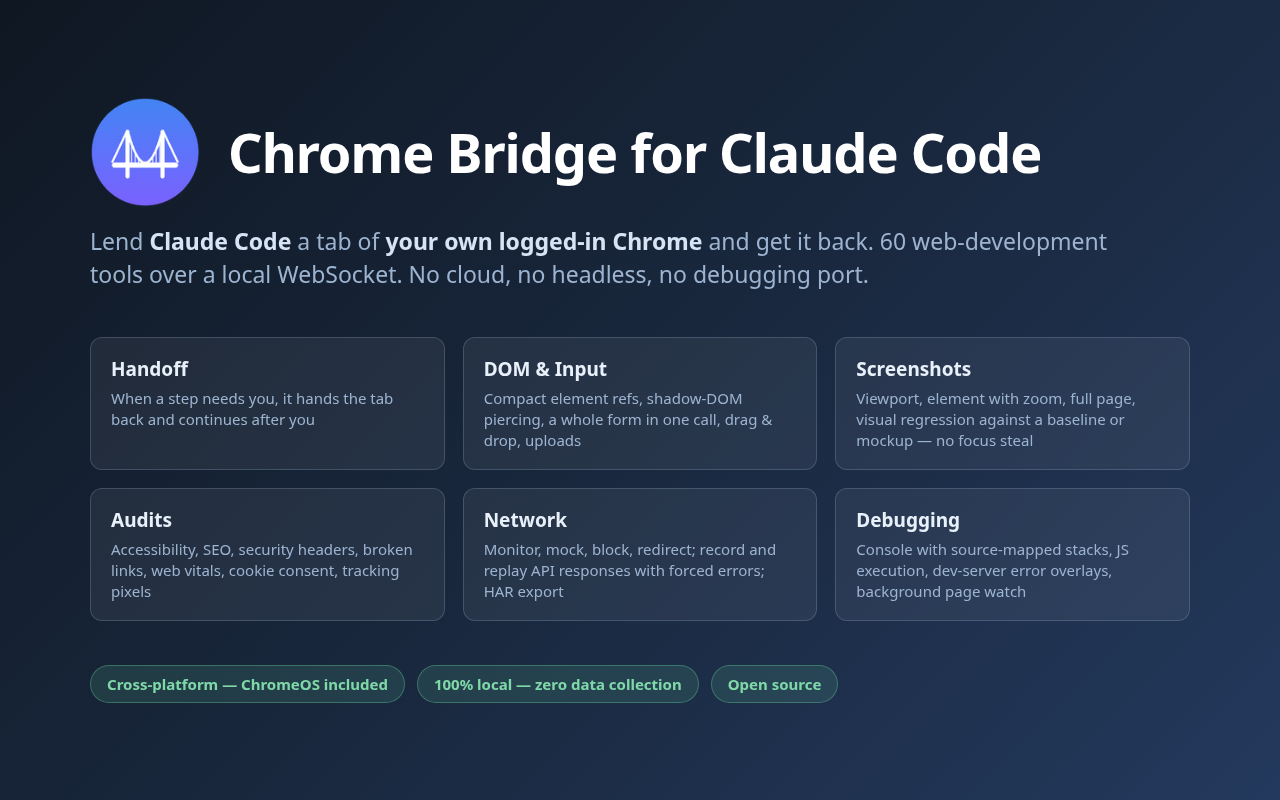
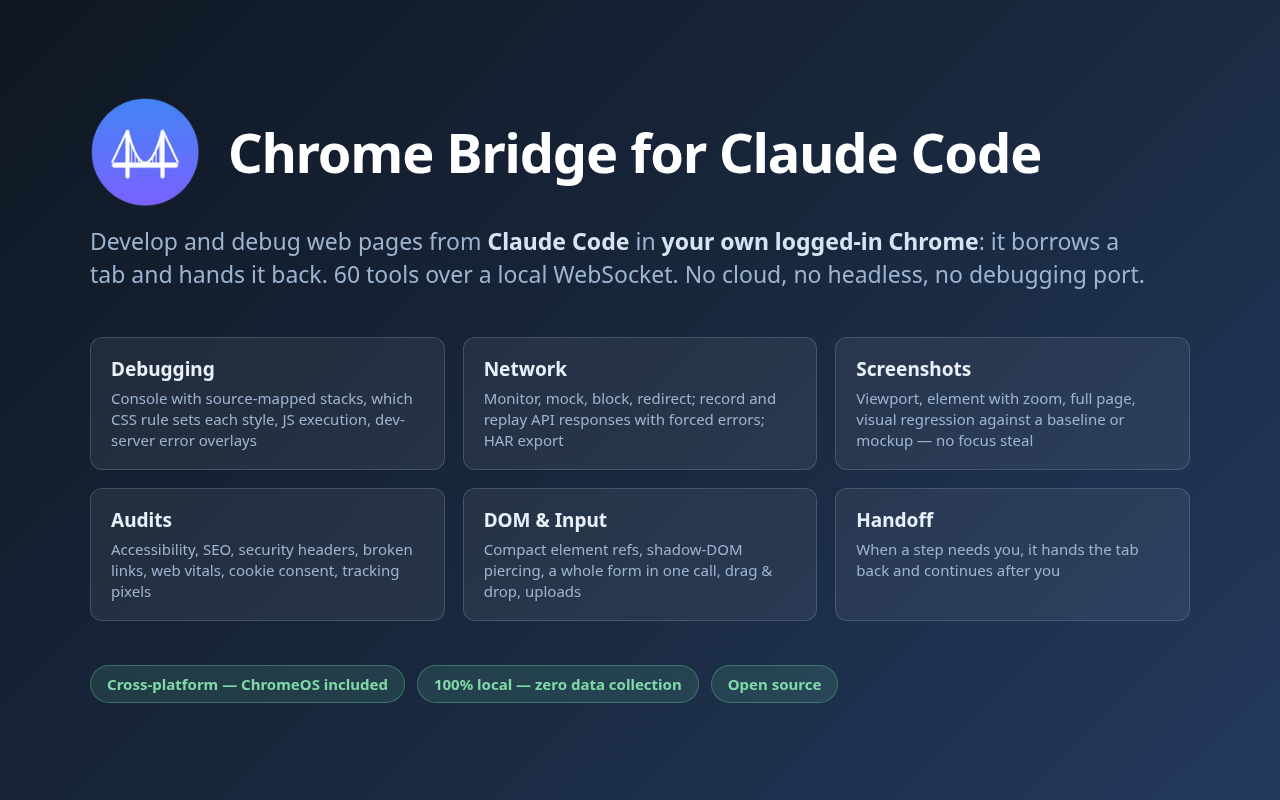
docs(store): screenshot 2 is a real debug session; hero and description lead with develop and debug
demo-debug/: checkout page whose bundle (one line, line-level source map from
build.mjs) fails on a 404 from /api/cart, with a Pay button whose
background-color is an undefined custom property. read_console(sourcemap),
monitor_network(browser) and get_css_styles output shown as returned.
demo-form.html and viewer.html removed (screenshot 2 no longer uses them).

diff --git a/docs/store/debug.html b/docs/store/debug.html
@@ -1,0 +1,85 @@
+<!DOCTYPE html>
+<html><head><meta charset="utf-8"><style>
+  * { margin: 0; box-sizing: border-box; }
+  body {
+    width: 1280px; height: 800px; overflow: hidden;
+    background: linear-gradient(135deg, #0f1722, #23395d);
+    font-family: system-ui, sans-serif;
+    display: flex; flex-direction: column; align-items: center; justify-content: center;
+  }
+  .caption { color: #e8f0fa; font-size: 26px; font-weight: 700; margin-bottom: 26px; }
+  .row { display: flex; gap: 22px; align-items: stretch; }
+  .win { border-radius: 10px; overflow: hidden; box-shadow: 0 22px 55px rgba(0,0,0,0.5); border: 1px solid #2a3542; }
+  .bar { height: 34px; background: #161d27; display: flex; align-items: center; padding: 0 14px; gap: 7px; }
+  .dot { width: 11px; height: 11px; border-radius: 50%; }
+  .bar .t { margin-left: 10px; color: #7d8ea3; font-size: 12px; font-family: ui-monospace, monospace; }
+  .page {
+    position: relative; width: 520px; height: 520px;
+    background: url(/real-debug.png) center / 800px auto no-repeat #f4f6fa;
+  }
+  .flag {
+    position: absolute; border: 2px dashed #e5484d; border-radius: 8px;
+  }
+  .flag span {
+    position: absolute; left: -2px; top: calc(100% + 6px); white-space: nowrap;
+    font: 600 12px ui-monospace, monospace; color: #fff; background: #e5484d; padding: 2px 7px; border-radius: 5px;
+  }
+  .term { width: 640px; background: #0d1117; }
+  pre {
+    padding: 20px 22px; font-family: 'Noto Sans Mono', ui-monospace, monospace;
+    font-size: 13.5px; line-height: 1.6; color: #c9d6e5; white-space: pre-wrap;
+  }
+  .c { color: #e8b45f; } .dim { color: #6f8196; } .err { color: #ff8589; } .ok { color: #7fd8a8; }
+</style></head><body>
+  <div class="caption">Debug the page you're building: console, network, styles</div>
+  <div class="row">
+    <div class="win">
+      <div class="bar">
+        <span class="dot" style="background:#ff5f57"></span>
+        <span class="dot" style="background:#febc2e"></span>
+        <span class="dot" style="background:#28c840"></span>
+        <span class="t">localhost:8791/demo-debug/</span>
+      </div>
+      <div class="page">
+        <div class="flag" id="flag"><span>.pay — "Pay now", invisible</span></div>
+      </div>
+    </div>
+    <div class="win term">
+      <div class="bar">
+        <span class="dot" style="background:#ff5f57"></span>
+        <span class="dot" style="background:#febc2e"></span>
+        <span class="dot" style="background:#28c840"></span>
+        <span class="t">claude — Claude Code</span>
+      </div>
+<pre><span class="c">⏺ read_console</span>(sourcemap: true)
+  <span class="dim">⎿</span> <span class="err">error</span> Cart failed to load: TypeError: Cannot read
+    properties of undefined (reading 'items')
+      at renderCart (dist/app.min.js:1:231 <span class="ok">→ src/cart.js:10:3</span>)
+      at loadCart (dist/app.min.js:1:116 <span class="ok">→ src/cart.js:5:3</span>)
+
+<span class="c">⏺ monitor_network</span>(source: "browser")
+  <span class="dim">⎿</span> 200 GET /demo-debug/dist/app.min.js
+    <span class="err">404 GET /api/cart</span>
+
+<span class="c">⏺ get_css_styles</span>(selector: ".pay")
+  <span class="dim">⎿</span> background-color: var(--brand-primary)
+      computed rgba(0, 0, 0, 0)  <span class="dim">(style.css, .pay)</span>
+    color: rgb(255, 255, 255)
+
+<span class="ok">✓</span> /api/cart answers 404, so cart is undefined at
+  src/cart.js:10. "Pay now" is white on white:
+  --brand-primary is never defined.</pre>
+    </div>
+  </div>
+  <script>
+    // Box of button.pay in the real capture (query_dom rect 270,390 460×42 at dpr 1.25),
+    // mapped onto the scaled, centred background of .page.
+    const shot = { w: 1250, h: 799 }, btn = { x: 338, y: 488, w: 575, h: 52 };
+    const page = document.querySelector('.page'), s = 800 / shot.w;
+    const ox = (page.clientWidth - shot.w * s) / 2, oy = (page.clientHeight - shot.h * s) / 2;
+    Object.assign(document.getElementById('flag').style, {
+      left: (ox + btn.x * s - 4) + 'px', top: (oy + btn.y * s - 4) + 'px',
+      width: (btn.w * s + 8) + 'px', height: (btn.h * s + 8) + 'px',
+    });
+  </script>
+</body></html>

diff --git a/docs/store/hero.html b/docs/store/hero.html
@@ -29,14 +29,14 @@
     <img src="/icon-128.png" alt="">
     <h1>Chrome Bridge for Claude Code</h1>
   </div>
-  <div class="sub">Lend <b>Claude Code</b> a tab of <b>your own logged-in Chrome</b> and get it back. 60 web-development tools over a local WebSocket. No cloud, no headless, no debugging port.</div>
+  <div class="sub">Develop and debug web pages from <b>Claude Code</b> in <b>your own logged-in Chrome</b>: it borrows a tab and hands it back. 60 tools over a local WebSocket. No cloud, no headless, no debugging port.</div>
   <div class="grid">
-    <div class="card"><div class="t">Handoff</div><div class="d">When a step needs you, it hands the tab back and continues after you</div></div>
-    <div class="card"><div class="t">DOM &amp; Input</div><div class="d">Compact element refs, shadow-DOM piercing, a whole form in one call, drag &amp; drop, uploads</div></div>
+    <div class="card"><div class="t">Debugging</div><div class="d">Console with source-mapped stacks, which CSS rule sets each style, JS execution, dev-server error overlays</div></div>
+    <div class="card"><div class="t">Network</div><div class="d">Monitor, mock, block, redirect; record and replay API responses with forced errors; HAR export</div></div>
     <div class="card"><div class="t">Screenshots</div><div class="d">Viewport, element with zoom, full page, visual regression against a baseline or mockup — no focus steal</div></div>
     <div class="card"><div class="t">Audits</div><div class="d">Accessibility, SEO, security headers, broken links, web vitals, cookie consent, tracking pixels</div></div>
-    <div class="card"><div class="t">Network</div><div class="d">Monitor, mock, block, redirect; record and replay API responses with forced errors; HAR export</div></div>
-    <div class="card"><div class="t">Debugging</div><div class="d">Console with source-mapped stacks, JS execution, dev-server error overlays, background page watch</div></div>
+    <div class="card"><div class="t">DOM &amp; Input</div><div class="d">Compact element refs, shadow-DOM piercing, a whole form in one call, drag &amp; drop, uploads</div></div>
+    <div class="card"><div class="t">Handoff</div><div class="d">When a step needs you, it hands the tab back and continues after you</div></div>
   </div>
   <div class="badges">
     <span class="badge">Cross-platform — ChromeOS included</span>

diff --git a/docs/store/demo-debug/style.css b/docs/store/demo-debug/style.css
@@ -1,0 +1,9 @@
+body { margin: 0; min-height: 100vh; background: #f4f6fa; font-family: system-ui, sans-serif; color: #1c2533;
+  display: flex; align-items: center; justify-content: center; }
+.card { width: 460px; background: #fff; border-radius: 12px; padding: 30px 34px; box-shadow: 0 8px 30px rgba(20,35,60,0.12); }
+.brand { font-weight: 800; font-size: 15px; color: #3b5bdb; margin-bottom: 6px; }
+h1 { font-size: 22px; margin: 0 0 18px; }
+#items { list-style: none; margin: 0 0 16px; padding: 0; min-height: 60px; border: 1px dashed #c9d2e0; border-radius: 8px; }
+.total { display: flex; justify-content: space-between; font-weight: 600; margin-bottom: 18px; }
+.pay { width: 100%; padding: 12px; font-size: 15px; font-weight: 600; color: #fff;
+  background-color: var(--brand-primary); border: 0; border-radius: 8px; }

diff --git a/docs/store/demo-debug/src/cart.js b/docs/store/demo-debug/src/cart.js
@@ -1,0 +1,15 @@
+// Checkout cart: loads the cart from the API and renders its items.
+async function loadCart() {
+  const res = await fetch('/api/cart');
+  const data = res.ok ? await res.json() : undefined;
+  renderCart(data);
+}
+
+function renderCart(cart) {
+  const list = document.querySelector('#items');
+  for (const item of cart.items) {
+    list.insertAdjacentHTML('beforeend', `<li>${item.name}<span>${item.price}</span></li>`);
+  }
+}
+
+loadCart().catch((err) => console.error('Cart failed to load:', err.stack));

diff --git a/docs/store/demo-debug/index.html b/docs/store/demo-debug/index.html
@@ -1,0 +1,12 @@
+<!DOCTYPE html>
+<html lang="en"><head><meta charset="utf-8"><title>Checkout — MyApp</title>
+<link rel="stylesheet" href="style.css"></head><body>
+  <main class="card">
+    <div class="brand">MyApp · shop</div>
+    <h1>Checkout</h1>
+    <ul id="items"></ul>
+    <div class="total"><span>Total</span><span>€0.00</span></div>
+    <button class="pay">Pay now</button>
+  </main>
+  <script src="dist/app.min.js"></script>
+</body></html>

diff --git a/docs/store/listing.md b/docs/store/listing.md
@@ -24,19 +24,19 @@ This extension has a single purpose: it lets the user's own Claude Code CLI (run
 
 ## Detailed description
 
-Chrome Bridge lets Claude Code — Anthropic's CLI coding agent — borrow a tab of the Chrome you are already using, signed in, and hand it back. No headless instance, no debugging port, no cloud service: a local WebSocket (localhost:8765) bridges the Claude Code MCP server on your machine to this extension. When a step needs you, it hands the tab back and continues after you.
+Chrome Bridge lets Claude Code — Anthropic's CLI coding agent — develop and debug web pages in the Chrome you are already using, signed in. No headless instance, no debugging port, no cloud service: a local WebSocket (localhost:8765) bridges the Claude Code MCP server on your machine to this extension. When a step needs you, it hands the tab back and continues after you.
 
 Built to be token-efficient: the agent acts on compact element references instead of screenshots, tables are filtered and paginated server-side before they reach the model, and every output is capped — so complex sessions cost far fewer tokens.
 
 60 specialized web-development tools:
 
-• Navigation & tabs — open, close, navigate, list tabs; move, tile and lay out windows
-• DOM — query selectors (shadow-DOM piercing), read pages as markdown, list interactive elements, read a form as filled, modify the DOM
-• Input — click, type, press keys, fill forms, drag & drop, upload files; hand the tab back to the user when a step needs them
+• Debugging — console logs with source-mapped stacks, which CSS rule sets each style, JS execution, dev-server error overlays, background page watch
+• Network — monitor requests, mock/block/redirect, record and replay API responses with forced errors, HAR export
 • Screenshots — viewport (one per device preset), element with zoom, full page, visual regression against a baseline, a design mockup or another URL; captures run in the background without stealing window focus
 • Audits — one call for accessibility, keyboard navigation, SEO, security headers, broken links, web vitals, unused CSS, slow plugins and CDN cache; cookie-consent audit; tracking pixels decoded
-• Network — monitor requests, mock/block/redirect, record and replay API responses with forced errors, HAR export
-• Debugging — console logs with source-mapped stacks, JS execution, dev-server error overlays, background page watch
+• DOM — query selectors (shadow-DOM piercing), read pages as markdown, list interactive elements, read a form as filled, modify the DOM
+• Input — click, type, press keys, fill forms, drag & drop, upload files; hand the tab back to the user when a step needs them
+• Navigation & tabs — open, close, navigate, list tabs; move, tile and lay out windows
 • Emulation — media, geolocation, viewport, zoom
 
 Cross-platform: Windows, macOS, Linux — any desktop Chrome 135+. Also the only Claude Code browser automation that works on ChromeOS (Crostini).

diff --git a/docs/store/PASTE-SHEET.md b/docs/store/PASTE-SHEET.md
@@ -23,19 +23,19 @@ Bridge your browser to Claude Code: 60 token-efficient web-dev automation tools 
 **Description:**
 
 ```
-Chrome Bridge lets Claude Code — Anthropic's CLI coding agent — borrow a tab of the Chrome you are already using, signed in, and hand it back. No headless instance, no debugging port, no cloud service: a local WebSocket (localhost:8765) bridges the Claude Code MCP server on your machine to this extension. When a step needs you, it hands the tab back and continues after you.
+Chrome Bridge lets Claude Code — Anthropic's CLI coding agent — develop and debug web pages in the Chrome you are already using, signed in. No headless instance, no debugging port, no cloud service: a local WebSocket (localhost:8765) bridges the Claude Code MCP server on your machine to this extension. When a step needs you, it hands the tab back and continues after you.
 
 Built to be token-efficient: the agent acts on compact element references instead of screenshots, tables are filtered and paginated server-side before they reach the model, and every output is capped — so complex sessions cost far fewer tokens.
 
 60 specialized web-development tools:
 
-• Navigation & tabs — open, close, navigate, list tabs; move, tile and lay out windows
-• DOM — query selectors (shadow-DOM piercing), read pages as markdown, list interactive elements, read a form as filled, modify the DOM
-• Input — click, type, press keys, fill forms, drag & drop, upload files; hand the tab back to the user when a step needs them
+• Debugging — console logs with source-mapped stacks, which CSS rule sets each style, JS execution, dev-server error overlays, background page watch
+• Network — monitor requests, mock/block/redirect, record and replay API responses with forced errors, HAR export
 • Screenshots — viewport (one per device preset), element with zoom, full page, visual regression against a baseline, a design mockup or another URL; captures run in the background without stealing window focus
 • Audits — one call for accessibility, keyboard navigation, SEO, security headers, broken links, web vitals, unused CSS, slow plugins and CDN cache; cookie-consent audit; tracking pixels decoded
-• Network — monitor requests, mock/block/redirect, record and replay API responses with forced errors, HAR export
-• Debugging — console logs with source-mapped stacks, JS execution, dev-server error overlays, background page watch
+• DOM — query selectors (shadow-DOM piercing), read pages as markdown, list interactive elements, read a form as filled, modify the DOM
+• Input — click, type, press keys, fill forms, drag & drop, upload files; hand the tab back to the user when a step needs them
+• Navigation & tabs — open, close, navigate, list tabs; move, tile and lay out windows
 • Emulation — media, geolocation, viewport, zoom
 
 Cross-platform: Windows, macOS, Linux — any desktop Chrome 135+. Also the only Claude Code browser automation that works on ChromeOS (Crostini).
